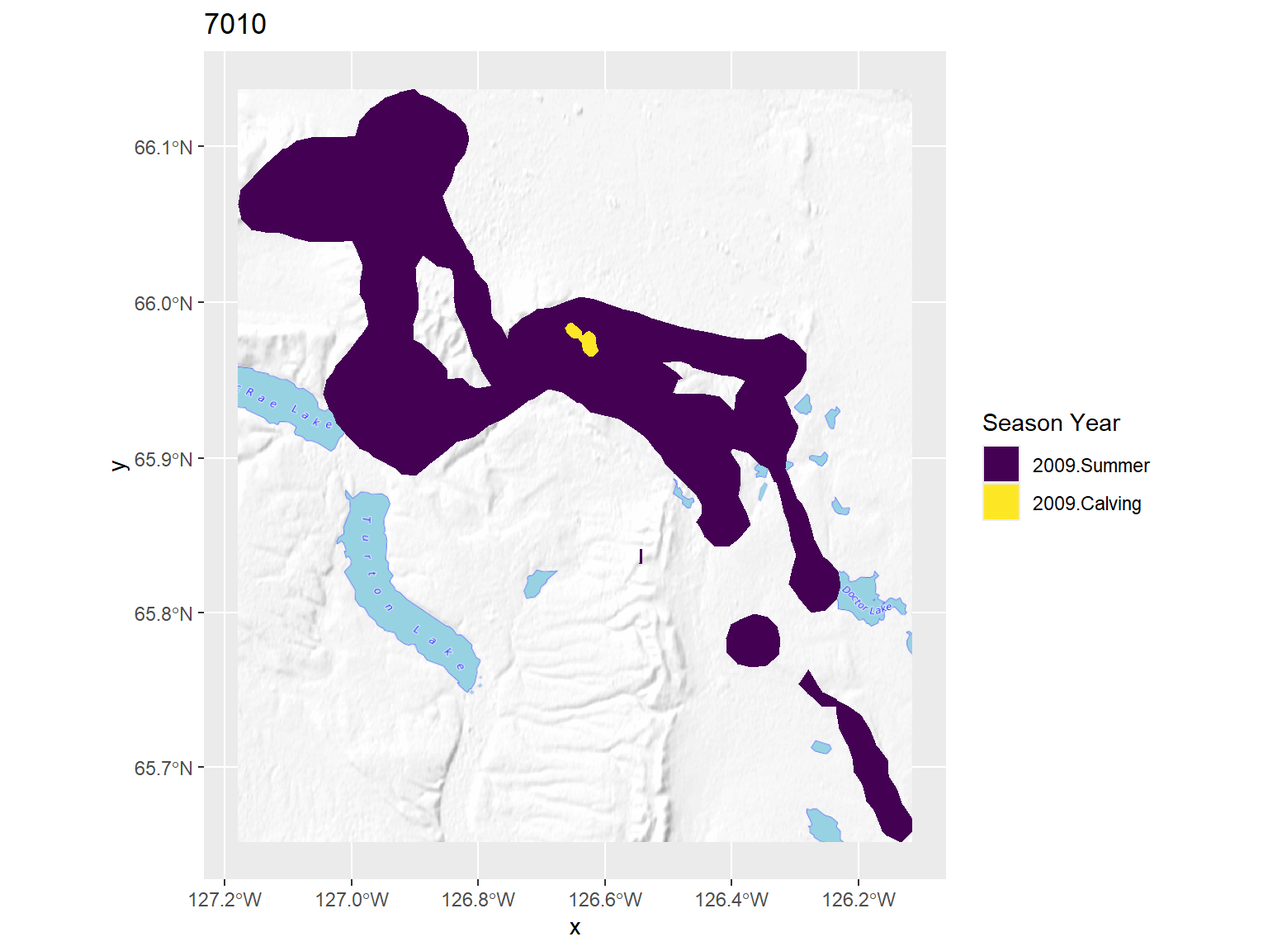
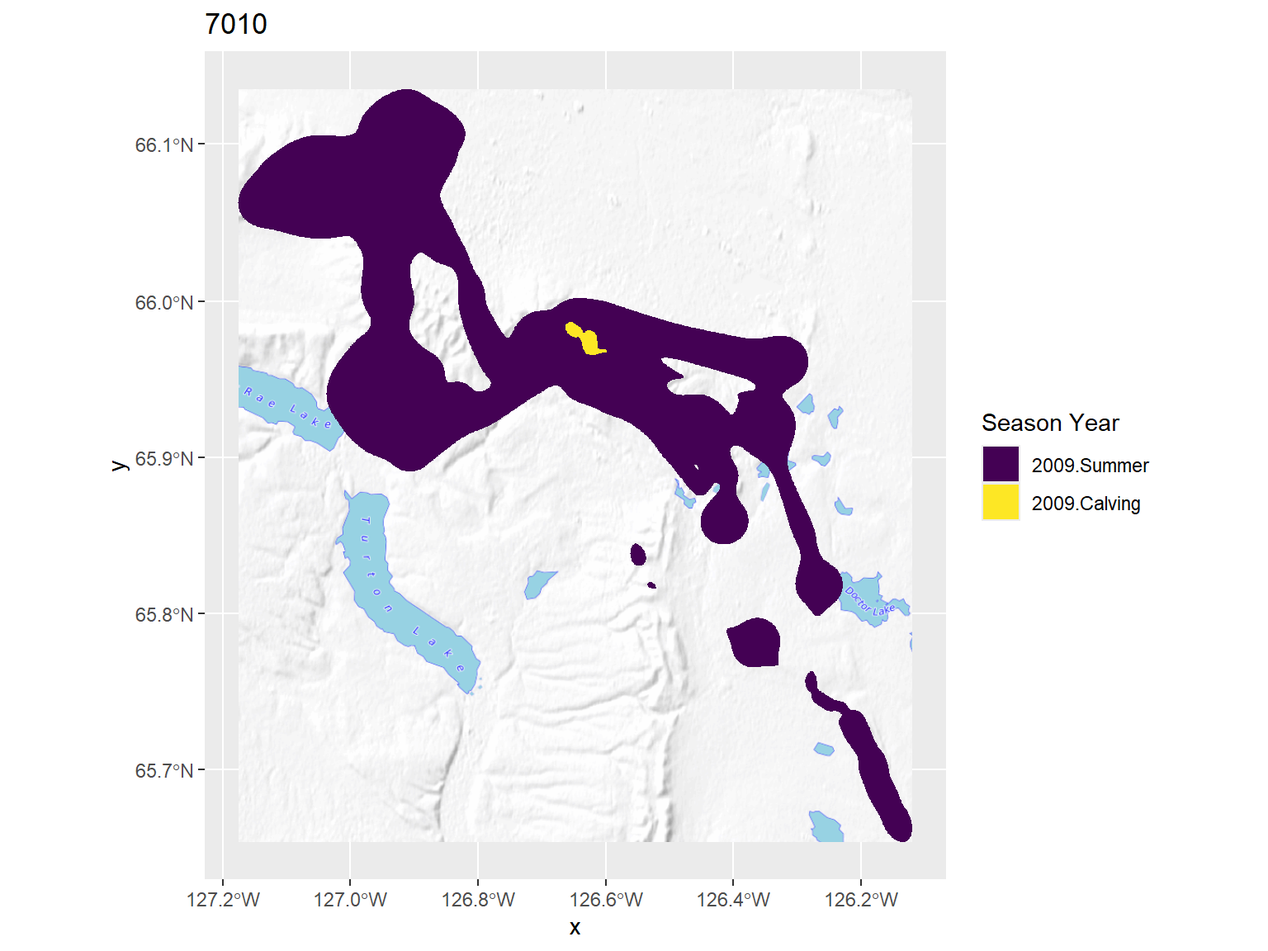
Updates to seasonal range doc

diff --git a/docs/quarto/seasonal_range.html b/docs/quarto/seasonal_range.html
@@ -215,19 +215,22 @@ pre > code.sourceCode > span > a:first-child::before { text-decoration: underlin
 <p>Some seasons are pretty short, due to the season overlapping the start or end of the monitoring period for that individuals. Let’s start by setting a cut-off for each season to be included in this analysis. Since muskoxen are moving around a lot in the summer, we’ll specify that we want at least four months of data (120 days). Summer usually goes from mid-May to end of October, so this cut-off assumes we have locations for roughly 80% of the period. Muskoxen are moving around less during the winter and calving seasons, so we will use cutoff of three and one month(s) (90 and 30 days). Winter typically lasts from end of October to our cutoff of April 1st and calving goes until mid May. This ensures roughly 60% of the season is included for winter and calving. Later we’ll compare different lengths of data to see the effect on home range estimates.</p>
 <div class="cell">
 <div class="sourceCode cell-code" id="cb2"><pre class="sourceCode r code-with-copy"><code class="sourceCode r"><span id="cb2-1"><a href="#cb2-1" aria-hidden="true" tabindex="-1"></a>musk_collar_seas <span class="ot">&lt;-</span> musk_season_length <span class="sc">%&gt;%</span></span>
-<span id="cb2-2"><a href="#cb2-2" aria-hidden="true" tabindex="-1"></a>  <span class="fu">mutate</span>(<span class="at">range_id =</span> <span class="fu">str_c</span>(Id_Number,<span class="st">"_"</span>,year_min,<span class="st">"_"</span>,season)) <span class="sc">%&gt;%</span></span>
-<span id="cb2-3"><a href="#cb2-3" aria-hidden="true" tabindex="-1"></a>  <span class="fu">group_by</span>(range_id) <span class="sc">%&gt;%</span></span>
-<span id="cb2-4"><a href="#cb2-4" aria-hidden="true" tabindex="-1"></a>  <span class="fu">filter</span>(season <span class="sc">==</span> <span class="st">"Calving"</span><span class="sc">&amp;</span>seas_length <span class="sc">&gt;=</span> <span class="dv">30</span><span class="sc">|</span></span>
-<span id="cb2-5"><a href="#cb2-5" aria-hidden="true" tabindex="-1"></a>           season <span class="sc">==</span> <span class="st">"Winter"</span><span class="sc">&amp;</span>seas_length <span class="sc">&gt;=</span> <span class="dv">90</span><span class="sc">|</span></span>
-<span id="cb2-6"><a href="#cb2-6" aria-hidden="true" tabindex="-1"></a>           season <span class="sc">==</span> <span class="st">"Summer"</span><span class="sc">&amp;</span>seas_length <span class="sc">&gt;=</span> <span class="dv">120</span>) <span class="sc">%&gt;%</span></span>
-<span id="cb2-7"><a href="#cb2-7" aria-hidden="true" tabindex="-1"></a>  <span class="fu">ungroup</span>() <span class="sc">%&gt;%</span></span>
-<span id="cb2-8"><a href="#cb2-8" aria-hidden="true" tabindex="-1"></a>  <span class="fu">mutate</span>(<span class="at">range_id =</span> <span class="fu">factor</span>(range_id)) <span class="sc">%&gt;%</span></span>
-<span id="cb2-9"><a href="#cb2-9" aria-hidden="true" tabindex="-1"></a>  <span class="fu">arrange</span>(range_id)</span>
-<span id="cb2-10"><a href="#cb2-10" aria-hidden="true" tabindex="-1"></a></span>
-<span id="cb2-11"><a href="#cb2-11" aria-hidden="true" tabindex="-1"></a>xy <span class="ot">&lt;-</span> musk_collar_seas <span class="sc">%&gt;%</span></span>
-<span id="cb2-12"><a href="#cb2-12" aria-hidden="true" tabindex="-1"></a>  sf<span class="sc">::</span><span class="fu">st_transform</span>(<span class="st">"+proj=utm +zone=9"</span>) <span class="sc">%&gt;%</span></span>
-<span id="cb2-13"><a href="#cb2-13" aria-hidden="true" tabindex="-1"></a>  sf<span class="sc">::</span><span class="fu">st_coordinates</span>()</span>
-<span id="cb2-14"><a href="#cb2-14" aria-hidden="true" tabindex="-1"></a>musk_ltraj <span class="ot">&lt;-</span> adehabitatLT<span class="sc">::</span><span class="fu">as.ltraj</span>(<span class="at">xy =</span> xy, <span class="at">date =</span> musk_collar_seas<span class="sc">$</span>datetime, <span class="at">id =</span> musk_collar_seas<span class="sc">$</span>range_id)</span></code><button title="Copy to Clipboard" class="code-copy-button"><i class="bi"></i></button></pre></div>
+<span id="cb2-2"><a href="#cb2-2" aria-hidden="true" tabindex="-1"></a>  <span class="do">### create groupings for muskoxen (7012 and 7013 overlap but the rest are separated)</span></span>
+<span id="cb2-3"><a href="#cb2-3" aria-hidden="true" tabindex="-1"></a>  <span class="fu">mutate</span>(<span class="at">range_id =</span> <span class="fu">str_c</span>(Id_Number,<span class="st">"_"</span>,year_min,<span class="st">"_"</span>,season),</span>
+<span id="cb2-4"><a href="#cb2-4" aria-hidden="true" tabindex="-1"></a>         <span class="at">group =</span> <span class="fu">ifelse</span>(Id_Number <span class="sc">%in%</span> <span class="fu">c</span>(<span class="dv">7012</span>,<span class="dv">7013</span>),</span>
+<span id="cb2-5"><a href="#cb2-5" aria-hidden="true" tabindex="-1"></a>                        <span class="st">"7012_13"</span>, <span class="fu">str_c</span>(Id_Number))) <span class="sc">%&gt;%</span></span>
+<span id="cb2-6"><a href="#cb2-6" aria-hidden="true" tabindex="-1"></a>  <span class="fu">group_by</span>(range_id) <span class="sc">%&gt;%</span></span>
+<span id="cb2-7"><a href="#cb2-7" aria-hidden="true" tabindex="-1"></a>  <span class="fu">filter</span>(season <span class="sc">==</span> <span class="st">"Calving"</span><span class="sc">&amp;</span>seas_length <span class="sc">&gt;=</span> <span class="dv">30</span><span class="sc">|</span></span>
+<span id="cb2-8"><a href="#cb2-8" aria-hidden="true" tabindex="-1"></a>           season <span class="sc">==</span> <span class="st">"Winter"</span><span class="sc">&amp;</span>seas_length <span class="sc">&gt;=</span> <span class="dv">90</span><span class="sc">|</span></span>
+<span id="cb2-9"><a href="#cb2-9" aria-hidden="true" tabindex="-1"></a>           season <span class="sc">==</span> <span class="st">"Summer"</span><span class="sc">&amp;</span>seas_length <span class="sc">&gt;=</span> <span class="dv">120</span>) <span class="sc">%&gt;%</span></span>
+<span id="cb2-10"><a href="#cb2-10" aria-hidden="true" tabindex="-1"></a>  <span class="fu">ungroup</span>() <span class="sc">%&gt;%</span></span>
+<span id="cb2-11"><a href="#cb2-11" aria-hidden="true" tabindex="-1"></a>  <span class="fu">mutate</span>(<span class="at">range_id =</span> <span class="fu">factor</span>(range_id)) <span class="sc">%&gt;%</span></span>
+<span id="cb2-12"><a href="#cb2-12" aria-hidden="true" tabindex="-1"></a>  <span class="fu">arrange</span>(range_id)</span>
+<span id="cb2-13"><a href="#cb2-13" aria-hidden="true" tabindex="-1"></a></span>
+<span id="cb2-14"><a href="#cb2-14" aria-hidden="true" tabindex="-1"></a>xy <span class="ot">&lt;-</span> musk_collar_seas <span class="sc">%&gt;%</span></span>
+<span id="cb2-15"><a href="#cb2-15" aria-hidden="true" tabindex="-1"></a>  sf<span class="sc">::</span><span class="fu">st_transform</span>(<span class="st">"+proj=utm +zone=9"</span>) <span class="sc">%&gt;%</span></span>
+<span id="cb2-16"><a href="#cb2-16" aria-hidden="true" tabindex="-1"></a>  sf<span class="sc">::</span><span class="fu">st_coordinates</span>()</span>
+<span id="cb2-17"><a href="#cb2-17" aria-hidden="true" tabindex="-1"></a>musk_ltraj <span class="ot">&lt;-</span> adehabitatLT<span class="sc">::</span><span class="fu">as.ltraj</span>(<span class="at">xy =</span> xy, <span class="at">date =</span> musk_collar_seas<span class="sc">$</span>datetime, <span class="at">id =</span> musk_collar_seas<span class="sc">$</span>range_id)</span></code><button title="Copy to Clipboard" class="code-copy-button"><i class="bi"></i></button></pre></div>
 </div>
 <p>Our first step towards creating seasonal home ranges is to determine GPS accuracy using stationary GPS data. We can use data from collar 707 as this collar was confirmed to have released early. We will calculate the standard deviation of the euclidean distances to estimate GPS accuracy. This will be used as the sig2 parameter in our models and can be used to help estimate the other model parameter, sig1, which is related to home range size.</p>
 <p>We can then fit movement models for each muskox for each season and estimate utilization distributions. From these distributions we can compare size and overlap between seasons, years, and muskoxen.</p>
@@ -254,39 +257,45 @@ pre > code.sourceCode > span > a:first-child::before { text-decoration: underlin
 <span id="cb3-19"><a href="#cb3-19" aria-hidden="true" tabindex="-1"></a>              <span class="at">plotit =</span> <span class="cn">FALSE</span>)</span></code><button title="Copy to Clipboard" class="code-copy-button"><i class="bi"></i></button></pre></div>
 </div>
 <div class="cell">
-<div class="sourceCode cell-code" id="cb4"><pre class="sourceCode r code-with-copy"><code class="sourceCode r"><span id="cb4-1"><a href="#cb4-1" aria-hidden="true" tabindex="-1"></a><span class="co"># bbox &lt;- musk_collar_seas %&gt;%</span></span>
-<span id="cb4-2"><a href="#cb4-2" aria-hidden="true" tabindex="-1"></a><span class="co">#   sf::st_transform("+proj=utm +zone=9") %&gt;%</span></span>
-<span id="cb4-3"><a href="#cb4-3" aria-hidden="true" tabindex="-1"></a><span class="co">#   mutate(x = sf::st_coordinates(geometry)[,1],</span></span>
-<span id="cb4-4"><a href="#cb4-4" aria-hidden="true" tabindex="-1"></a><span class="co">#          y = sf::st_coordinates(geometry)[,2]) %&gt;%</span></span>
-<span id="cb4-5"><a href="#cb4-5" aria-hidden="true" tabindex="-1"></a><span class="co">#   st_drop_geometry() %&gt;%</span></span>
-<span id="cb4-6"><a href="#cb4-6" aria-hidden="true" tabindex="-1"></a><span class="co">#   group_by(range_id) %&gt;%</span></span>
-<span id="cb4-7"><a href="#cb4-7" aria-hidden="true" tabindex="-1"></a><span class="co">#   summarise(xmin = min(x),</span></span>
-<span id="cb4-8"><a href="#cb4-8" aria-hidden="true" tabindex="-1"></a><span class="co">#          xmax = max(x),</span></span>
-<span id="cb4-9"><a href="#cb4-9" aria-hidden="true" tabindex="-1"></a><span class="co">#          ymin = min(y),</span></span>
-<span id="cb4-10"><a href="#cb4-10" aria-hidden="true" tabindex="-1"></a><span class="co">#          ymax = max(y)) </span></span>
-<span id="cb4-11"><a href="#cb4-11" aria-hidden="true" tabindex="-1"></a><span class="co"># </span></span>
-<span id="cb4-12"><a href="#cb4-12" aria-hidden="true" tabindex="-1"></a><span class="co"># sp_pixels = list()</span></span>
-<span id="cb4-13"><a href="#cb4-13" aria-hidden="true" tabindex="-1"></a><span class="co"># for(i in 1:nrow(bbox)){</span></span>
-<span id="cb4-14"><a href="#cb4-14" aria-hidden="true" tabindex="-1"></a><span class="co">#   coords &lt;- expand.grid(x = seq(bbox$xmin[i]-50,bbox$xmax[i]+10,100),</span></span>
-<span id="cb4-15"><a href="#cb4-15" aria-hidden="true" tabindex="-1"></a><span class="co">#                       y = seq(bbox$ymin[i]-10,bbox$ymax[i]+10,100))</span></span>
-<span id="cb4-16"><a href="#cb4-16" aria-hidden="true" tabindex="-1"></a><span class="co">#   sf_points &lt;- st_as_sf(coords, coords = c("x", "y"), crs = "+proj=utm +zone=9")</span></span>
-<span id="cb4-17"><a href="#cb4-17" aria-hidden="true" tabindex="-1"></a><span class="co">#   sp_points &lt;- as(sf_points, "Spatial")</span></span>
-<span id="cb4-18"><a href="#cb4-18" aria-hidden="true" tabindex="-1"></a><span class="co">#   sp_pixels[[i]] &lt;- SpatialPixels(sp_points)</span></span>
-<span id="cb4-19"><a href="#cb4-19" aria-hidden="true" tabindex="-1"></a><span class="co"># }</span></span>
+<div class="sourceCode cell-code" id="cb4"><pre class="sourceCode r code-with-copy"><code class="sourceCode r"><span id="cb4-1"><a href="#cb4-1" aria-hidden="true" tabindex="-1"></a>bbox <span class="ot">&lt;-</span> musk_collar_seas <span class="sc">%&gt;%</span></span>
+<span id="cb4-2"><a href="#cb4-2" aria-hidden="true" tabindex="-1"></a>  sf<span class="sc">::</span><span class="fu">st_transform</span>(<span class="st">"+proj=utm +zone=9"</span>) <span class="sc">%&gt;%</span></span>
+<span id="cb4-3"><a href="#cb4-3" aria-hidden="true" tabindex="-1"></a>  <span class="fu">mutate</span>(<span class="at">x =</span> sf<span class="sc">::</span><span class="fu">st_coordinates</span>(geometry)[,<span class="dv">1</span>],</span>
+<span id="cb4-4"><a href="#cb4-4" aria-hidden="true" tabindex="-1"></a>         <span class="at">y =</span> sf<span class="sc">::</span><span class="fu">st_coordinates</span>(geometry)[,<span class="dv">2</span>]) <span class="sc">%&gt;%</span></span>
+<span id="cb4-5"><a href="#cb4-5" aria-hidden="true" tabindex="-1"></a>  <span class="fu">st_drop_geometry</span>()  <span class="sc">%&gt;%</span></span>
+<span id="cb4-6"><a href="#cb4-6" aria-hidden="true" tabindex="-1"></a>  <span class="fu">group_by</span>(group) <span class="sc">%&gt;%</span></span>
+<span id="cb4-7"><a href="#cb4-7" aria-hidden="true" tabindex="-1"></a>  <span class="fu">summarise</span>(<span class="at">xmin =</span> <span class="fu">min</span>(x),</span>
+<span id="cb4-8"><a href="#cb4-8" aria-hidden="true" tabindex="-1"></a>         <span class="at">xmax =</span> <span class="fu">max</span>(x),</span>
+<span id="cb4-9"><a href="#cb4-9" aria-hidden="true" tabindex="-1"></a>         <span class="at">ymin =</span> <span class="fu">min</span>(y),</span>
+<span id="cb4-10"><a href="#cb4-10" aria-hidden="true" tabindex="-1"></a>         <span class="at">ymax =</span> <span class="fu">max</span>(y))</span>
+<span id="cb4-11"><a href="#cb4-11" aria-hidden="true" tabindex="-1"></a></span>
+<span id="cb4-12"><a href="#cb4-12" aria-hidden="true" tabindex="-1"></a>sp_pixels <span class="ot">=</span> <span class="fu">list</span>()</span>
+<span id="cb4-13"><a href="#cb4-13" aria-hidden="true" tabindex="-1"></a><span class="cf">for</span>(i <span class="cf">in</span> <span class="dv">1</span><span class="sc">:</span><span class="fu">nrow</span>(bbox)){</span>
+<span id="cb4-14"><a href="#cb4-14" aria-hidden="true" tabindex="-1"></a>  coords <span class="ot">&lt;-</span> <span class="fu">expand.grid</span>(<span class="at">x =</span> <span class="fu">seq</span>(bbox<span class="sc">$</span>xmin[i]<span class="sc">-</span><span class="dv">5000</span>,bbox<span class="sc">$</span>xmax[i]<span class="sc">+</span><span class="dv">5000</span>,<span class="dv">100</span>),</span>
+<span id="cb4-15"><a href="#cb4-15" aria-hidden="true" tabindex="-1"></a>                      <span class="at">y =</span> <span class="fu">seq</span>(bbox<span class="sc">$</span>ymin[i]<span class="sc">-</span><span class="dv">5000</span>,bbox<span class="sc">$</span>ymax[i]<span class="sc">+</span><span class="dv">5000</span>,<span class="dv">100</span>))</span>
+<span id="cb4-16"><a href="#cb4-16" aria-hidden="true" tabindex="-1"></a>  sf_points <span class="ot">&lt;-</span> <span class="fu">st_as_sf</span>(coords, <span class="at">coords =</span> <span class="fu">c</span>(<span class="st">"x"</span>, <span class="st">"y"</span>), <span class="at">crs =</span> <span class="st">"+proj=utm +zone=9"</span>)</span>
+<span id="cb4-17"><a href="#cb4-17" aria-hidden="true" tabindex="-1"></a>  sp_points <span class="ot">&lt;-</span> <span class="fu">as</span>(sf_points, <span class="st">"Spatial"</span>)</span>
+<span id="cb4-18"><a href="#cb4-18" aria-hidden="true" tabindex="-1"></a>  sp_pixels[[bbox<span class="sc">$</span>group[i]]] <span class="ot">&lt;-</span> <span class="fu">SpatialPixels</span>(sp_points)</span>
+<span id="cb4-19"><a href="#cb4-19" aria-hidden="true" tabindex="-1"></a>}</span>
 <span id="cb4-20"><a href="#cb4-20" aria-hidden="true" tabindex="-1"></a></span>
 <span id="cb4-21"><a href="#cb4-21" aria-hidden="true" tabindex="-1"></a>musk_bb <span class="ot">&lt;-</span> <span class="fu">list</span>()</span>
-<span id="cb4-22"><a href="#cb4-22" aria-hidden="true" tabindex="-1"></a><span class="cf">for</span>(i <span class="cf">in</span> <span class="dv">1</span><span class="sc">:</span><span class="fu">length</span>(sig1)){</span>
-<span id="cb4-23"><a href="#cb4-23" aria-hidden="true" tabindex="-1"></a>  musk_bb[[i]] <span class="ot">&lt;-</span> <span class="fu">kernelbb</span>(musk_ltraj[i],</span>
-<span id="cb4-24"><a href="#cb4-24" aria-hidden="true" tabindex="-1"></a>                           <span class="at">sig1 =</span> sig1[[i]]<span class="sc">$</span>sig1,</span>
-<span id="cb4-25"><a href="#cb4-25" aria-hidden="true" tabindex="-1"></a>                           <span class="at">sig2 =</span> sig2,</span>
-<span id="cb4-26"><a href="#cb4-26" aria-hidden="true" tabindex="-1"></a>                           <span class="at">grid=</span><span class="dv">100</span>) </span>
-<span id="cb4-27"><a href="#cb4-27" aria-hidden="true" tabindex="-1"></a>}</span></code><button title="Copy to Clipboard" class="code-copy-button"><i class="bi"></i></button></pre></div>
+<span id="cb4-22"><a href="#cb4-22" aria-hidden="true" tabindex="-1"></a>lookup <span class="ot">&lt;-</span> musk_collar_seas <span class="sc">%&gt;%</span></span>
+<span id="cb4-23"><a href="#cb4-23" aria-hidden="true" tabindex="-1"></a>  <span class="fu">st_drop_geometry</span>() <span class="sc">%&gt;%</span></span>
+<span id="cb4-24"><a href="#cb4-24" aria-hidden="true" tabindex="-1"></a>  dplyr<span class="sc">::</span><span class="fu">select</span>(range_id, group) <span class="sc">%&gt;%</span></span>
+<span id="cb4-25"><a href="#cb4-25" aria-hidden="true" tabindex="-1"></a>  <span class="fu">distinct</span>()</span>
+<span id="cb4-26"><a href="#cb4-26" aria-hidden="true" tabindex="-1"></a><span class="co"># for(i in 1:length(sig1)){</span></span>
+<span id="cb4-27"><a href="#cb4-27" aria-hidden="true" tabindex="-1"></a><span class="co">#   musk_bb[[i]] &lt;- kernelbb(musk_ltraj[i],</span></span>
+<span id="cb4-28"><a href="#cb4-28" aria-hidden="true" tabindex="-1"></a><span class="co">#                            sig1 = sig1[[i]]$sig1,</span></span>
+<span id="cb4-29"><a href="#cb4-29" aria-hidden="true" tabindex="-1"></a><span class="co">#                            sig2 = sig2,</span></span>
+<span id="cb4-30"><a href="#cb4-30" aria-hidden="true" tabindex="-1"></a><span class="co">#                            grid=sp_pixels[[lookup$group[i]]])</span></span>
+<span id="cb4-31"><a href="#cb4-31" aria-hidden="true" tabindex="-1"></a><span class="co"># }</span></span>
+<span id="cb4-32"><a href="#cb4-32" aria-hidden="true" tabindex="-1"></a><span class="co"># saveRDS(musk_bb, here("data/processed/musk_bb.rds"))</span></span>
+<span id="cb4-33"><a href="#cb4-33" aria-hidden="true" tabindex="-1"></a>musk_bb <span class="ot">&lt;-</span> <span class="fu">readRDS</span>(<span class="fu">here</span>(<span class="st">"data/processed/musk_bb.rds"</span>))  </span></code><button title="Copy to Clipboard" class="code-copy-button"><i class="bi"></i></button></pre></div>
 </div>
 <p>Let’s take a look at the contour plots for each individual to make sure they look okay:</p>
 <div class="cell">
 <div class="cell-output cell-output-stdout">
 <pre><code>Loading basemap 'topographic' from map service 'osm'...
-Using geom_raster() with maxpixels = 670375.</code></pre>
+Using geom_raster() with maxpixels = 659712.</code></pre>
 </div>
 <div class="cell-output-display">
 <div>
@@ -297,7 +306,7 @@ Using geom_raster() with maxpixels = 670375.</code></pre>
 </div>
 <div class="cell-output cell-output-stdout">
 <pre><code>Loading basemap 'topographic' from map service 'osm'...
-Using geom_raster() with maxpixels = 523647.</code></pre>
+Using geom_raster() with maxpixels = 520010.</code></pre>
 </div>
 <div class="cell-output-display">
 <div>
@@ -308,7 +317,7 @@ Using geom_raster() with maxpixels = 523647.</code></pre>
 </div>
 <div class="cell-output cell-output-stdout">
 <pre><code>Loading basemap 'topographic' from map service 'osm'...
-Using geom_raster() with maxpixels = 365390.</code></pre>
+Using geom_raster() with maxpixels = 362340.</code></pre>
 </div>
 <div class="cell-output-display">
 <div>
@@ -319,7 +328,7 @@ Using geom_raster() with maxpixels = 365390.</code></pre>
 </div>
 <div class="cell-output cell-output-stdout">
 <pre><code>Loading basemap 'topographic' from map service 'osm'...
-Using geom_raster() with maxpixels = 365390.</code></pre>
+Using geom_raster() with maxpixels = 362340.</code></pre>
 </div>
 <div class="cell-output-display">
 <div>
@@ -330,7 +339,7 @@ Using geom_raster() with maxpixels = 365390.</code></pre>
 </div>
 <div class="cell-output cell-output-stdout">
 <pre><code>Loading basemap 'topographic' from map service 'osm'...
-Using geom_raster() with maxpixels = 557904.</code></pre>
+Using geom_raster() with maxpixels = 550715.</code></pre>
 </div>
 <div class="cell-output-display">
 <div>
@@ -341,7 +350,7 @@ Using geom_raster() with maxpixels = 557904.</code></pre>
 </div>
 <div class="cell-output cell-output-stdout">
 <pre><code>Loading basemap 'topographic' from map service 'osm'...
-Using geom_raster() with maxpixels = 748800.</code></pre>
+Using geom_raster() with maxpixels = 747830.</code></pre>
 </div>
 <div class="cell-output-display">
 <div>
@@ -352,7 +361,7 @@ Using geom_raster() with maxpixels = 748800.</code></pre>
 </div>
 <div class="cell-output cell-output-stdout">
 <pre><code>Loading basemap 'topographic' from map service 'osm'...
-Using geom_raster() with maxpixels = 532396.</code></pre>
+Using geom_raster() with maxpixels = 523905.</code></pre>
 </div>
 <div class="cell-output-display">
 <div>
@@ -367,20 +376,102 @@ Using geom_raster() with maxpixels = 532396.</code></pre>
 <div class="cell-output-display">
 <div>
 <figure class="figure">
-<p><img src="seasonal_range_files/figure-html/musk_seasrange-1.png" class="img-fluid figure-img" width="768"></p>
+<p><img src="seasonal_range_files/figure-html/musk_seasrange-1.png" class="img-fluid figure-img" width="960"></p>
 </figure>
 </div>
 </div>
 <div class="cell-output-display">
 <div>
 <figure class="figure">
-<p><img src="seasonal_range_files/figure-html/musk_seasrange-2.png" class="img-fluid figure-img" width="768"></p>
+<p><img src="seasonal_range_files/figure-html/musk_seasrange-2.png" class="img-fluid figure-img" width="960"></p>
 </figure>
 </div>
 </div>
 </div>
+<p>There are some large ranges in 2009, particularly for 7011 (summer and calving), 7010 winter, 7012 calving, and 708 winter.</p>
+<section id="range-overlap" class="level2">
+<h2 class="anchored" data-anchor-id="range-overlap">Range Overlap</h2>
+<p>We will now use the <code>kerneloverlap</code> function to investigate the degree of overlap between seasonal ranges within the same year and between years. This function implements a number of overlap metrics that are well suited to measuring overlap of utilization distributions. Consequently, we can explore not only overlap between contours of a given size, but also the degree to which high probability regions of ranges overlap. For example the <code>PHR</code> function calculates the probability of an individual from one home range being found in another home range.</p>
+<div class="cell">
+<div class="sourceCode cell-code" id="cb12"><pre class="sourceCode r code-with-copy"><code class="sourceCode r"><span id="cb12-1"><a href="#cb12-1" aria-hidden="true" tabindex="-1"></a>overlap_func <span class="ot">&lt;-</span> <span class="cf">function</span>(group){</span>
+<span id="cb12-2"><a href="#cb12-2" aria-hidden="true" tabindex="-1"></a>  rows <span class="ot">=</span> <span class="fu">which</span>(lookup<span class="sc">$</span>group <span class="sc">==</span> group)</span>
+<span id="cb12-3"><a href="#cb12-3" aria-hidden="true" tabindex="-1"></a>  temp <span class="ot">&lt;-</span> musk_bb[rows]</span>
+<span id="cb12-4"><a href="#cb12-4" aria-hidden="true" tabindex="-1"></a>  <span class="fu">class</span>(temp) <span class="ot">&lt;-</span> <span class="st">"estUDm"</span></span>
+<span id="cb12-5"><a href="#cb12-5" aria-hidden="true" tabindex="-1"></a>  poverlap <span class="ot">&lt;-</span> <span class="fu">kerneloverlaphr</span>(temp, <span class="at">method =</span> <span class="st">"HR"</span>) <span class="sc">%&gt;%</span></span>
+<span id="cb12-6"><a href="#cb12-6" aria-hidden="true" tabindex="-1"></a>    <span class="fu">as_tibble</span>(<span class="at">.name_repair =</span> <span class="st">"unique"</span>) <span class="sc">%&gt;%</span></span>
+<span id="cb12-7"><a href="#cb12-7" aria-hidden="true" tabindex="-1"></a>    <span class="fu">setNames</span>(lookup<span class="sc">$</span>range_id[rows]) <span class="sc">%&gt;%</span></span>
+<span id="cb12-8"><a href="#cb12-8" aria-hidden="true" tabindex="-1"></a>    <span class="fu">mutate</span>(<span class="at">range_id =</span> lookup<span class="sc">$</span>range_id[rows],</span>
+<span id="cb12-9"><a href="#cb12-9" aria-hidden="true" tabindex="-1"></a>           <span class="at">metric =</span> <span class="st">"Percent Overlap"</span>) <span class="sc">%&gt;%</span></span>
+<span id="cb12-10"><a href="#cb12-10" aria-hidden="true" tabindex="-1"></a>    <span class="fu">pivot_longer</span>(<span class="dv">1</span><span class="sc">:</span><span class="fu">length</span>(rows), </span>
+<span id="cb12-11"><a href="#cb12-11" aria-hidden="true" tabindex="-1"></a>                 <span class="at">names_to =</span> <span class="st">"range_id_compare"</span>, </span>
+<span id="cb12-12"><a href="#cb12-12" aria-hidden="true" tabindex="-1"></a>                 <span class="at">values_to =</span> <span class="st">"value"</span>)</span>
+<span id="cb12-13"><a href="#cb12-13" aria-hidden="true" tabindex="-1"></a>  volume <span class="ot">&lt;-</span> <span class="fu">kerneloverlaphr</span>(temp, <span class="at">method =</span> <span class="st">"PHR"</span>) <span class="sc">%&gt;%</span></span>
+<span id="cb12-14"><a href="#cb12-14" aria-hidden="true" tabindex="-1"></a>    <span class="fu">as_tibble</span>(<span class="at">.name_repair =</span> <span class="st">"unique"</span>) <span class="sc">%&gt;%</span></span>
+<span id="cb12-15"><a href="#cb12-15" aria-hidden="true" tabindex="-1"></a>    <span class="fu">setNames</span>(lookup<span class="sc">$</span>range_id[rows]) <span class="sc">%&gt;%</span></span>
+<span id="cb12-16"><a href="#cb12-16" aria-hidden="true" tabindex="-1"></a>    <span class="fu">mutate</span>(<span class="at">range_id =</span> lookup<span class="sc">$</span>range_id[rows],</span>
+<span id="cb12-17"><a href="#cb12-17" aria-hidden="true" tabindex="-1"></a>           <span class="at">metric =</span> <span class="st">"Volume of UD"</span>) <span class="sc">%&gt;%</span></span>
+<span id="cb12-18"><a href="#cb12-18" aria-hidden="true" tabindex="-1"></a>    <span class="fu">pivot_longer</span>(<span class="dv">1</span><span class="sc">:</span><span class="fu">length</span>(rows), </span>
+<span id="cb12-19"><a href="#cb12-19" aria-hidden="true" tabindex="-1"></a>                 <span class="at">names_to =</span> <span class="st">"range_id_compare"</span>, </span>
+<span id="cb12-20"><a href="#cb12-20" aria-hidden="true" tabindex="-1"></a>                 <span class="at">values_to =</span> <span class="st">"value"</span>) <span class="sc">%&gt;%</span></span>
+<span id="cb12-21"><a href="#cb12-21" aria-hidden="true" tabindex="-1"></a>    <span class="fu">mutate</span>(<span class="at">value =</span> <span class="fu">round</span>(value,<span class="dv">3</span>))</span>
+<span id="cb12-22"><a href="#cb12-22" aria-hidden="true" tabindex="-1"></a>  overlap <span class="ot">&lt;-</span> <span class="fu">bind_rows</span>(poverlap,volume)  </span>
+<span id="cb12-23"><a href="#cb12-23" aria-hidden="true" tabindex="-1"></a>}</span>
+<span id="cb12-24"><a href="#cb12-24" aria-hidden="true" tabindex="-1"></a></span>
+<span id="cb12-25"><a href="#cb12-25" aria-hidden="true" tabindex="-1"></a>musk_overlap <span class="ot">&lt;-</span> <span class="fu">map</span>(<span class="fu">unique</span>(lookup<span class="sc">$</span>group), <span class="cf">function</span>(.x){<span class="fu">overlap_func</span>(.x)}) <span class="sc">%&gt;%</span></span>
+<span id="cb12-26"><a href="#cb12-26" aria-hidden="true" tabindex="-1"></a>  <span class="fu">list_rbind</span>() <span class="sc">%&gt;%</span></span>
+<span id="cb12-27"><a href="#cb12-27" aria-hidden="true" tabindex="-1"></a>  <span class="fu">filter</span>(range_id <span class="sc">!=</span> range_id_compare) <span class="sc">%&gt;%</span></span>
+<span id="cb12-28"><a href="#cb12-28" aria-hidden="true" tabindex="-1"></a>  <span class="fu">left_join</span>(musk_collar_seas <span class="sc">%&gt;%</span> </span>
+<span id="cb12-29"><a href="#cb12-29" aria-hidden="true" tabindex="-1"></a>              <span class="fu">st_drop_geometry</span>() <span class="sc">%&gt;%</span></span>
+<span id="cb12-30"><a href="#cb12-30" aria-hidden="true" tabindex="-1"></a>              dplyr<span class="sc">::</span><span class="fu">select</span>(range_id, Id_Number, year_min, season) <span class="sc">%&gt;%</span></span>
+<span id="cb12-31"><a href="#cb12-31" aria-hidden="true" tabindex="-1"></a>              <span class="fu">distinct</span>(),</span>
+<span id="cb12-32"><a href="#cb12-32" aria-hidden="true" tabindex="-1"></a>            <span class="at">by =</span> <span class="fu">c</span>(<span class="st">"range_id_compare"</span> <span class="ot">=</span> <span class="st">"range_id"</span>)) <span class="sc">%&gt;%</span></span>
+<span id="cb12-33"><a href="#cb12-33" aria-hidden="true" tabindex="-1"></a>  <span class="fu">rename</span>(<span class="at">Id_Number_compare =</span> Id_Number,</span>
+<span id="cb12-34"><a href="#cb12-34" aria-hidden="true" tabindex="-1"></a>         <span class="at">year_min_compare =</span> year_min,</span>
+<span id="cb12-35"><a href="#cb12-35" aria-hidden="true" tabindex="-1"></a>         <span class="at">season_compare =</span> season) <span class="sc">%&gt;%</span></span>
+<span id="cb12-36"><a href="#cb12-36" aria-hidden="true" tabindex="-1"></a>  <span class="fu">left_join</span>(musk_collar_seas <span class="sc">%&gt;%</span> </span>
+<span id="cb12-37"><a href="#cb12-37" aria-hidden="true" tabindex="-1"></a>              <span class="fu">st_drop_geometry</span>() <span class="sc">%&gt;%</span></span>
+<span id="cb12-38"><a href="#cb12-38" aria-hidden="true" tabindex="-1"></a>              dplyr<span class="sc">::</span><span class="fu">select</span>(range_id, Id_Number, year_min, season) <span class="sc">%&gt;%</span></span>
+<span id="cb12-39"><a href="#cb12-39" aria-hidden="true" tabindex="-1"></a>              <span class="fu">distinct</span>())</span></code><button title="Copy to Clipboard" class="code-copy-button"><i class="bi"></i></button></pre></div>
+</div>
+<p>Let’s plot the overlap metrics. The first graph shows the percent overlap of an individual’s 95% home range contour from different seasons and years. Home rqanges represented by columns are compared against home ranges represented by rows and separated by different year lags.</p>
+<p>The second graph depicts the probability that an individual with a utilization distribution represented by the row is found in the 95% home range contour represented by the column.</p>
+<div class="cell">
+<div class="cell-output-display">
+<div>
+<figure class="figure">
+<p><img src="seasonal_range_files/figure-html/musk_overlap_plot-1.png" class="img-fluid figure-img" width="672"></p>
+</figure>
+</div>
+</div>
+<div class="cell-output-display">
+<div>
+<figure class="figure">
+<p><img src="seasonal_range_files/figure-html/musk_overlap_plot-2.png" class="img-fluid figure-img" width="672"></p>
+</figure>
+</div>
+</div>
+</div>
+<p>A few patterns are clear from these graphs:</p>
+<ul>
+<li><p>Summer home ranges shared ~40% of their area across years.</p></li>
+<li><p>Winter and calving home ranges typically shared a high overlap with summer ranges, especially those from the same year. However, there was a lot of variation in this overlap, with some seasons having near 100% overlap and some having very little overlap.</p></li>
+<li><p>Calving season ranges shared a high overlap with the winter season range immediately preceding it, but there was considerable variation in this overlap.</p></li>
+<li><p>Winter and calving season ranges showed negligible overlap across years, suggesting low seasonal range fidelity.</p></li>
+</ul>
+<p>Lastly, let’s look at the comparison of seasonal ranges between muskox 7012 and 7013, which were the only muskoxen that overlapped in space and time.</p>
+<div class="cell">
+<div class="cell-output-display">
+<div>
+<figure class="figure">
+<p><img src="seasonal_range_files/figure-html/musk_overlap_plot2-1.png" class="img-fluid figure-img" width="672"></p>
+</figure>
+</div>
+</div>
+</div>
+<p>The highest overlap is during the summer. These muskoxen do not appear to share large areas during the winter or calving season and despite being found in the same location occasionally, they appeared to wander on their own for most of the time they were collared.</p>
 
 
+</section>
 
 </main> <!-- /main -->
 <script id="quarto-html-after-body" type="application/javascript">
